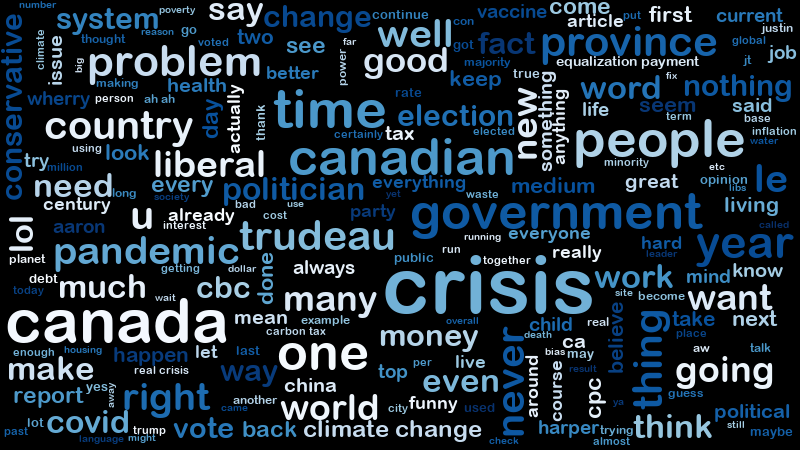
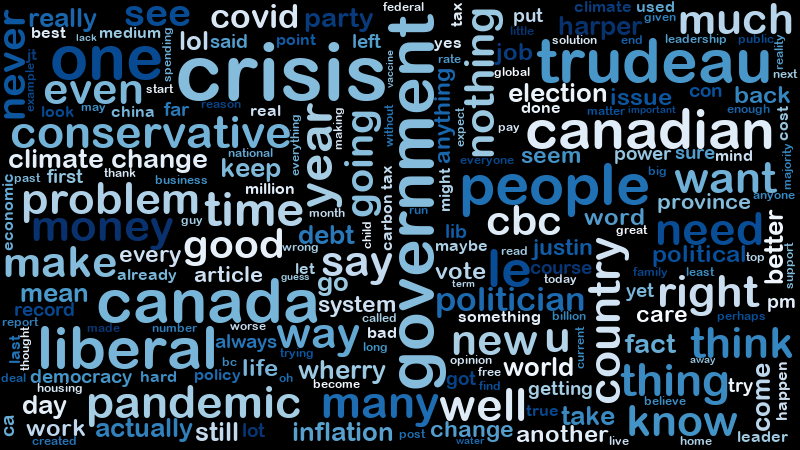
add new stories

diff --git a/page/all_stories.html b/page/all_stories.html
@@ -1,1 +1,1 @@
-<html><head><title>CBC Comments Analysis: All Stories</title><meta name="viewport" content="width=device-width, initial-scale=1.0"></head><body style="margin: 20px;"><p><a href="https://github.com/sitrucp/cbc_comments">Github repository</a></p><p><a href="https://sitrucp.github.io/cbc_comments/">Story list</a></p><p><a href="https://sitrucp.github.io/cbc_comments/image_grid.html">Image grid</a></p><h1>CBC Story Comments Analysis</h1><p>This page shows analysis of all 37 stories that have been analysed.</p><H2>Word cloud top 200 comment words</H2><p>Word size is relative to # of occurences in comments.</p><p><a href="https://sitrucp.github.io/cbc_comments/image/word_cloud_all.png" target="_blank"><img src="https://sitrucp.github.io/cbc_comments/image/word_cloud_all.png" width="600"/></a></p><H2>Word cloud top 100 comment usernames</H2><p>Username size is relative to # of comments.</p><p><a href="https://sitrucp.github.io/cbc_comments/image/people_all.png" target="_blank"><img src="https://sitrucp.github.io/cbc_comments/image/people_all.png" width="600"/></a></p><H2>Comment and reply username interactions</H2><p>This shows username interactions across all of the 37 stories analysed where the usernames appeared in more than one story.</p><p>Red circle = username (size relative to # comments).<br>Blue lines = interactions between usernames (width relative to # interactions).</p><p><a href="https://sitrucp.github.io/cbc_comments/image/network_all.png" target="_blank"><img src="https://sitrucp.github.io/cbc_comments/image/network_all.png" width="600"/></a></p></body></html>
+<html><head><title>CBC Comments Analysis: All Stories</title><meta name="viewport" content="width=device-width, initial-scale=1.0"></head><body style="margin: 20px;"><p><a href="https://github.com/sitrucp/cbc_comments">Github repository</a></p><p><a href="https://sitrucp.github.io/cbc_comments/">Story list</a></p><p><a href="https://sitrucp.github.io/cbc_comments/image_grid.html">Image grid</a></p><h1>CBC Story Comments Analysis</h1><p>This page shows combined analysis of 38 stories.</p><H2>Word cloud top 200 comment words</H2><p>Word size is relative to # of occurences in comments.</p><p><a href="https://sitrucp.github.io/cbc_comments/image/word_cloud_all.png" target="_blank"><img src="https://sitrucp.github.io/cbc_comments/image/word_cloud_all.png" width="600"/></a></p><H2>Word cloud top 100 comment usernames</H2><p>Username size is relative to # of comments.</p><p><a href="https://sitrucp.github.io/cbc_comments/image/people_all.png" target="_blank"><img src="https://sitrucp.github.io/cbc_comments/image/people_all.png" width="600"/></a></p><H2>Comment and reply username interactions</H2><p>This shows username interactions across all of the 38 stories for all usernames that made commented in one or more stories.</p><p>Red circle = usernames (size relative to # comments).<br>Blue lines = comments and replies between usernames (width relative to # comments and replies).</p><p><a href="https://sitrucp.github.io/cbc_comments/image/network_all.png" target="_blank"><img src="https://sitrucp.github.io/cbc_comments/image/network_all.png" width="600"/></a></p></body></html>
